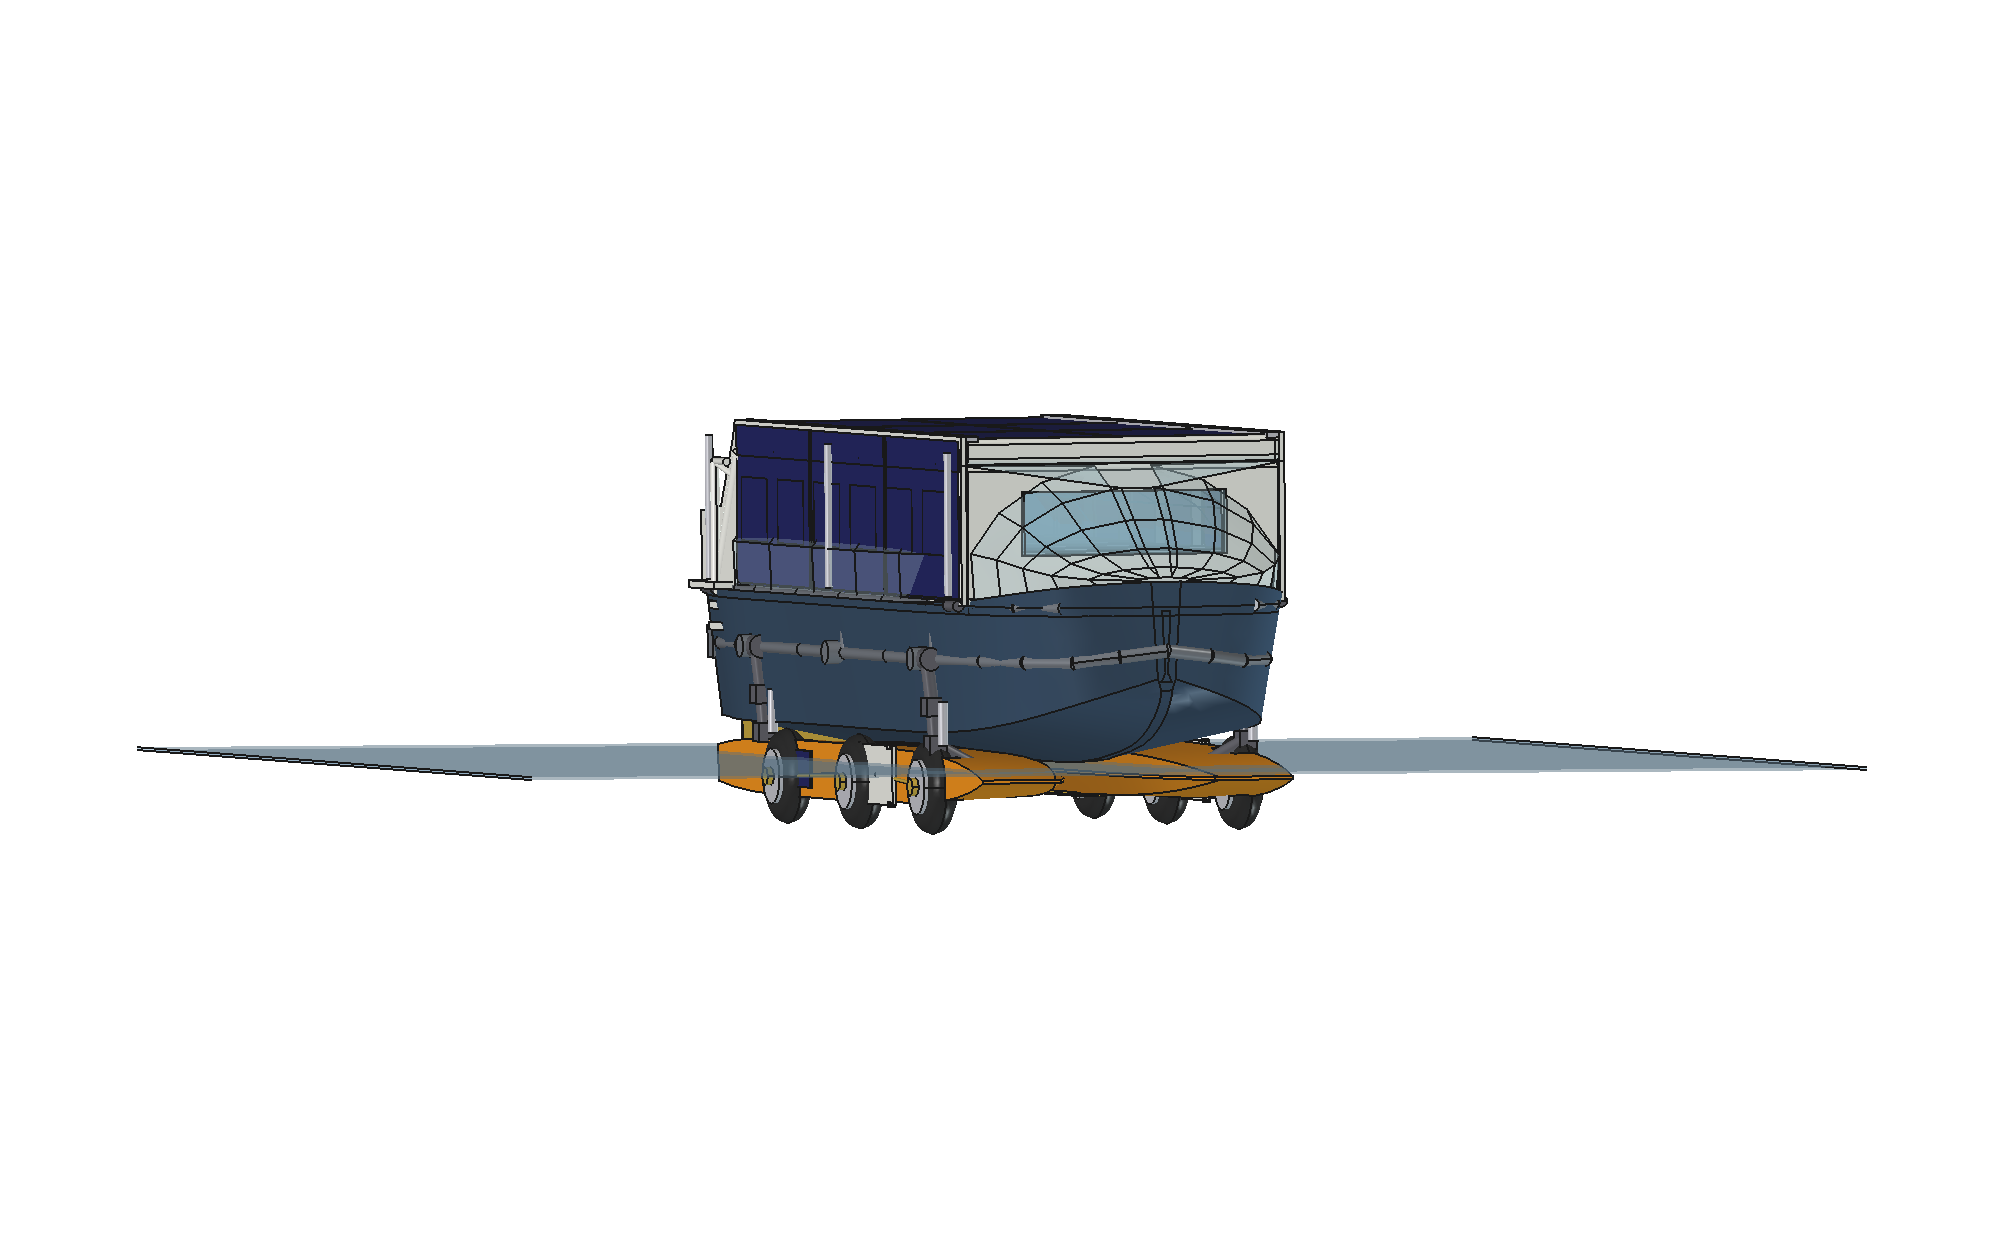
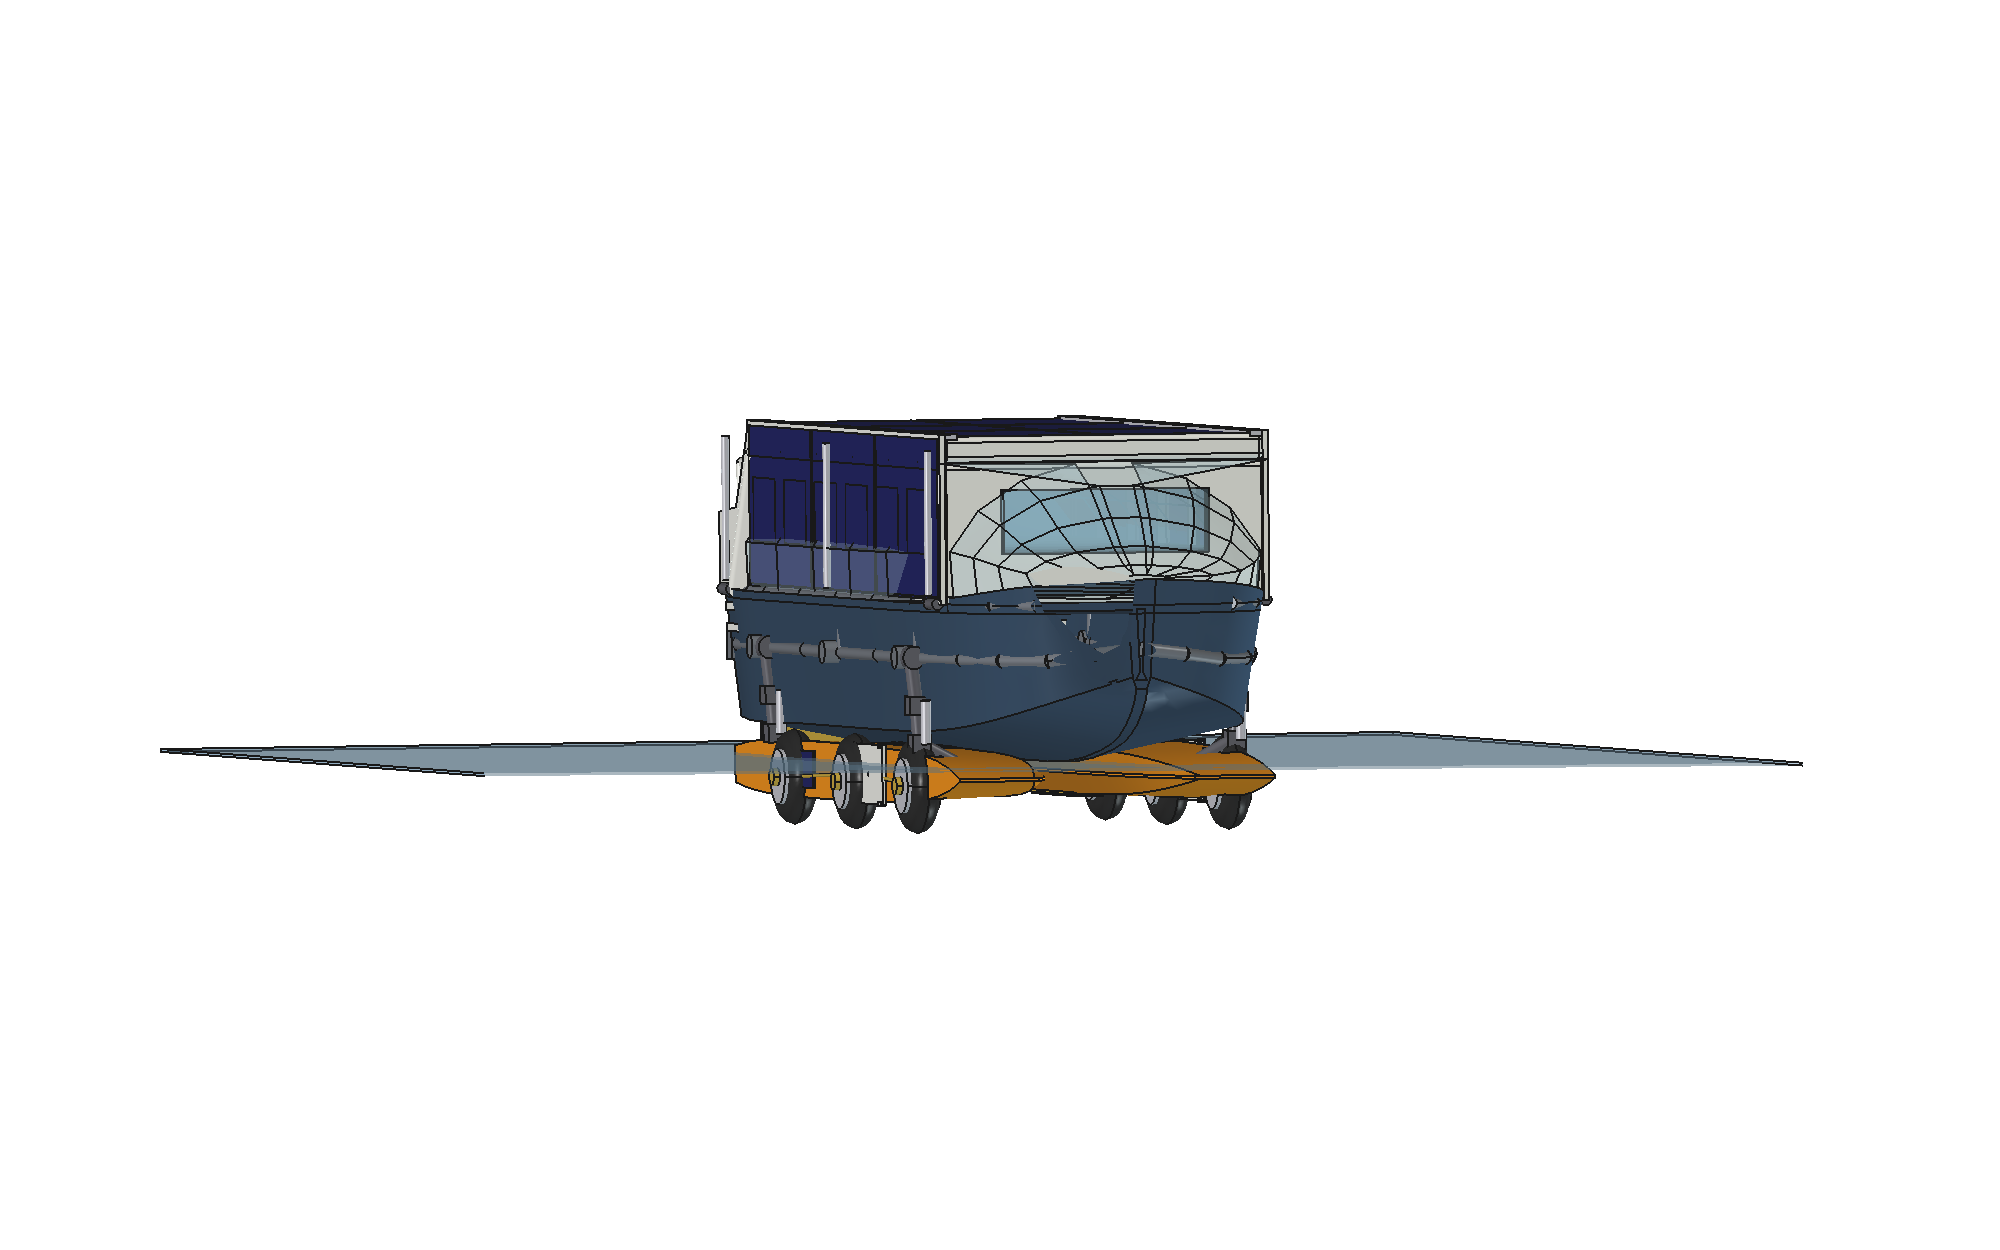
Fix: boarding-gate hardware was breaking the road width limit
The gate threshold plate reached y 1330 where the hull deck edge is
only 1166-1231, so it stood up to 99 mm proud of the hull on each
side: road width 2660 mm against a 2550 limit. checks() never caught
it because road_width only looked at the hull, wheels, floats and the
folded balcony.

Threshold plate pulled inside the hull (y 1180) and the boarding grab
post moved from y 1230 to 1150. Both are now included in the
road_width computation so this class of error cannot recur.

Also added fold_open / fold_closed renders that verify the aft passage
is part of the folding solar panel: with the panel folded it stands
vertical along its whole length, only 540 mm tall over the passage
section.

Changed region(s): [[0.093, 0.3432, 0.93, 0.6552]]

diff --git a/freecad/params.py b/freecad/params.py
@@ -267,8 +267,9 @@ GATE_X0, GATE_X1 = 200, 800    # sheer-rail gap right beside the
 # landing in each forward corner at bench height, and a grab post
 # bolted to the balcony frame at the gate
 LANDING_Z = 850
+GATE_PLATE_Y = 1180           # threshold plate stays inside the hull
 GRAB_POST_X = 520
-GRAB_POST_Y = 1230
+GRAB_POST_Y = 1150            # inboard of the deck edge (road width)
 GRAB_POST_H = 900
 # aft wall fit-out, seen from the cockpit: AC upper right, lockers below
 AC_Y0, AC_Y1 = 600, 1140
@@ -373,7 +374,9 @@ def checks(verbose=True):
     wheel_outer = wheel_disc_y + (WHEEL_W + 60) / 2
     float_outer_road = POD_ROAD[0] + FLOAT_H / 2               # sideways
     road_width = 2 * max(HULL_BEAM / 2, wheel_outer, float_outer_road,
-                         BALC_HINGE_Y + BALC_T + 2 * PANEL_T + 12)
+                         BALC_HINGE_Y + BALC_T + 2 * PANEL_T + 12,
+                         GATE_PLATE_Y,            # gate threshold plate
+                         GRAB_POST_Y + 35)        # boarding grab post
     road_height = CABIN_ROOF_Z + CANOPY_THICK - GROUND_Z
     track = 2 * wheel_disc_y
     # water: floats flat, wheels flat on deck

diff --git a/freecad/build_boat.py b/freecad/build_boat.py
@@ -703,8 +703,9 @@ def build_aft_entry(rail_up=False, door_open=False):
         parts.append(box(P.GATE_X1 - P.GATE_X0, 300, 55,
                          (P.GATE_X0, sgn * 880 - (300 if sgn < 0 else 0),
                           (P.LANDING_Z + DECK_Z) / 2)))       # half step
-        parts.append(box(P.GATE_X1 - P.GATE_X0, 260, 50,
-                         (P.GATE_X0, sgn * 1200 - 130, DECK_Z)))
+        parts.append(box(P.GATE_X1 - P.GATE_X0, 240, 50,
+                         (P.GATE_X0, sgn * P.GATE_PLATE_Y
+                          - (240 if sgn > 0 else 0), DECK_Z)))
         # grab post on the balcony frame + tie back into the cabin wall
         parts.append(rod((P.GRAB_POST_X, sgn * P.GRAB_POST_Y, DECK_Z),
                          (P.GRAB_POST_X, sgn * P.GRAB_POST_Y,
